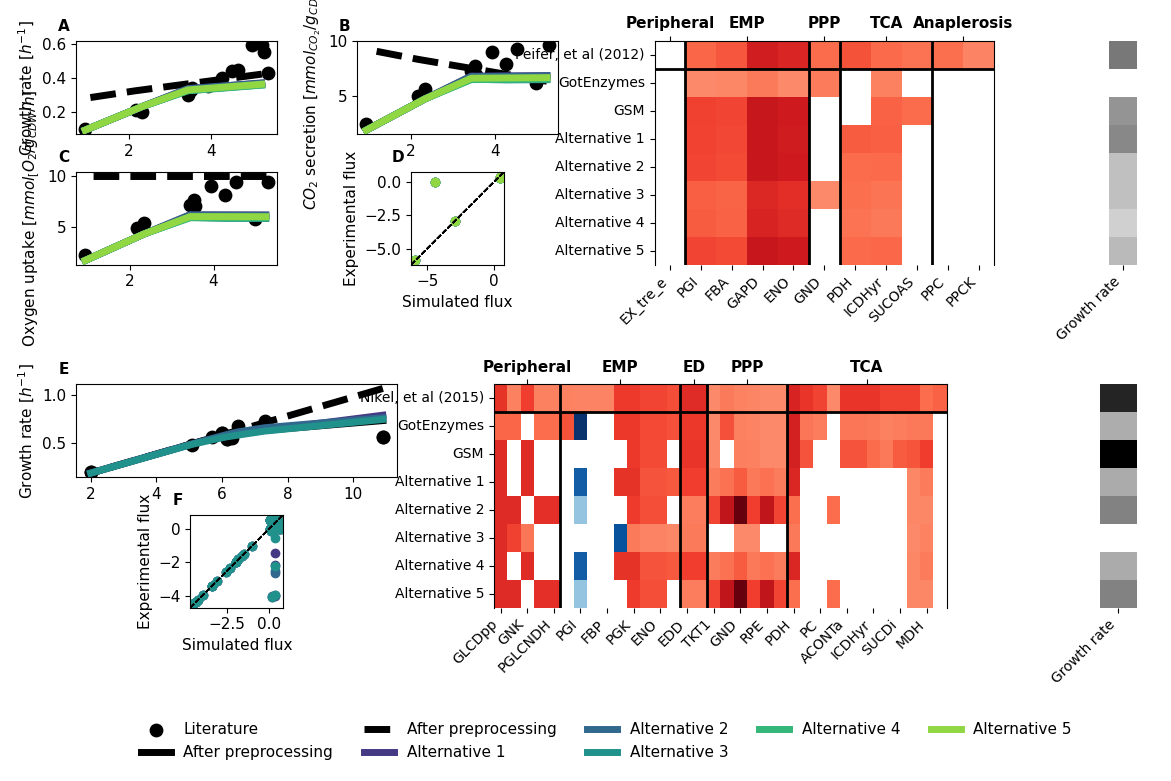
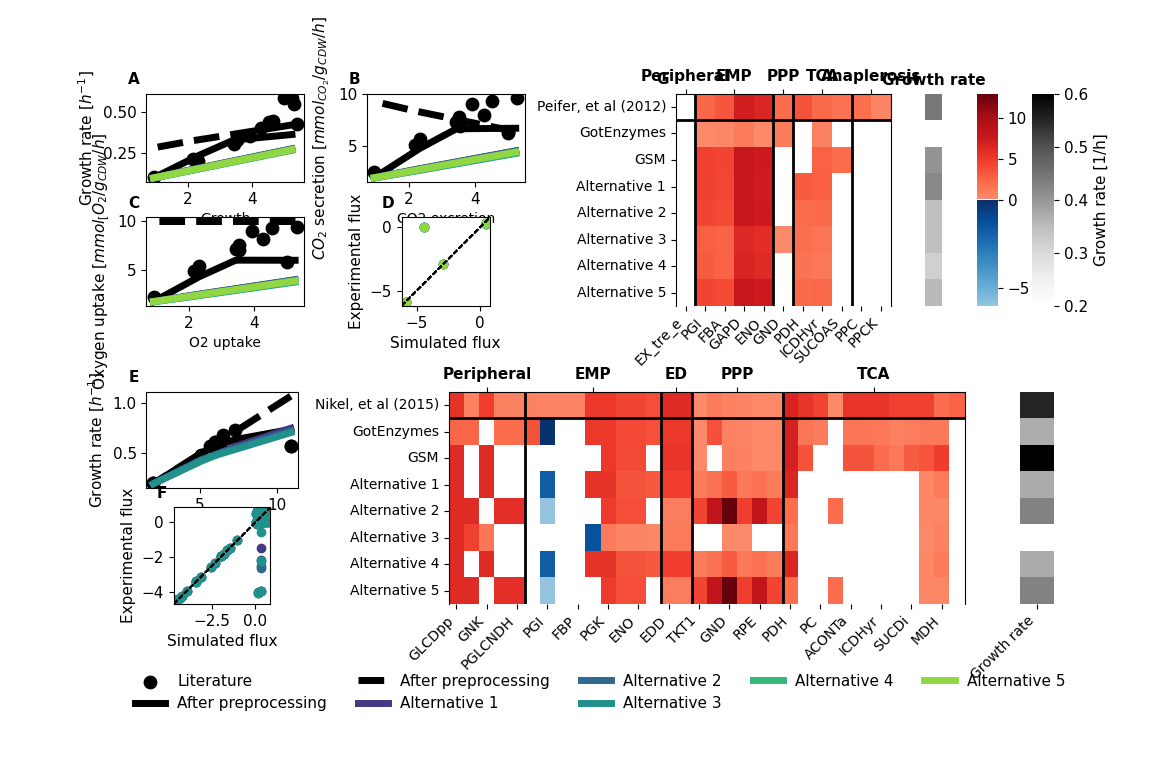
work on figures

diff --git a/Figures/Scripts/Figure3_alternative_models.py b/Figures/Scripts/Figure3_alternative_models.py
@@ -23,6 +23,8 @@ PAM_KCAT_FILES_IJN = [os.path.join('Results', '2_parametrization', 'diagnostics'
 FONTSIZE=11
 
 labels = [f'Alternative {i}' for i in range(1, NUM_MODELS+1)]
+rxns2label = {'EX_o2_e': 'O2 uptake', 'EX_co2_e': 'CO2 excretion', 'EX_glc__D_e': 'glc uptake', 'Growth': 'Growth',
+              'BIOMASS_KT2440_WT3':'Growth'}
 
 def main():
     # fig, axs = plt.subplots(figsize=(20,20))
@@ -42,16 +44,16 @@ def main():
     fig = plt.figure(figsize=(30/2.56, 20/2.56))
 
     # Outer GridSpec: 2 rows (80% heatmaps, 20% colorbar)
-    gs_main = gridspec.GridSpec(3, 1, height_ratios=[4,4,0.2])
+    gs_main = gridspec.GridSpec(3, 1, height_ratios=[4,4,0.1], hspace=0.6)
     gs_cgb = gridspec.GridSpecFromSubplotSpec(1, 2, subplot_spec=gs_main[0],
-                                                  wspace=0.2, width_ratios=[1, 1]
+                                                  wspace=0.4, width_ratios=[1, 1]
                                                   )
 
     gs_cgb_fluxes = gridspec.GridSpecFromSubplotSpec(2, 2, subplot_spec=gs_cgb[0, 0],
                                                     wspace=0.4,
                                                     hspace=0.4)
     gs_ijn = gridspec.GridSpecFromSubplotSpec(1, 2, subplot_spec=gs_main[1],
-                                                  wspace=0.2, width_ratios=[1, 4]
+                                                  wspace=0.4, width_ratios=[1, 4]
                                                   )
 
     gs_ijn_fluxes = gridspec.GridSpecFromSubplotSpec(2, 1, subplot_spec=gs_ijn[0, 0],
@@ -87,7 +89,10 @@ def main():
                                gem_file = gem_file,
                                cmap = cmap,
                                 other_measurements = True,
-                               enzyme_sector_update = False)
+                               enzyme_sector_update = True)
+        for i,a in enumerate(ax[:-1]):
+            a.set_xlabel(rxns2label[rxns_to_plot[i]])
+
         i+=1
 
 
@@ -102,7 +107,7 @@ def main():
                      fontsize=FONTSIZE,
                      ncol=5, frameon=False)
     #add annotation
-    annotations = ["A", "B", "C", "D", "E", "F", "G", "H"]
+    annotations = ["A", "B", "C", "D", "F", "G","E", "H"]
 
     for ax, label in zip(fig.axes, annotations):
         ax.annotate(label, xy=(0, 1), xycoords="axes fraction",
@@ -128,7 +133,7 @@ def main():
     #          0.05, r'Glucose uptake rate [mmol/$\text{g}_\text{CDW}$/h]', ha='center', va='center', fontsize=FONTSIZE)
 
 
-    plt.tight_layout()
+    # plt.tight_layout()
     # fig.tight_layout()
     fig.savefig(os.path.join('Figures', 'Figure3_cglutanicum_pputida.png'))
 

diff --git a/Scripts/i3_analysis/metabolic_flux_distribution_vs_exp.py b/Scripts/i3_analysis/metabolic_flux_distribution_vs_exp.py
@@ -173,7 +173,7 @@ def plot_flux_heatmap_for_pathways(flux_df:pd.DataFrame,
 
         else:
             # ax.tick_params(axis='y', labelrotation=90)
-            ax_main = fig.add_subplot(gs[0, :2])
+            ax_main = fig.add_subplot(gs[0, :3])
             ax_growth = fig.add_subplot(gs[0, 3])
 
             sns.heatmap(growth_df, ax=ax_growth, cmap="Greys", cbar=cbar,
